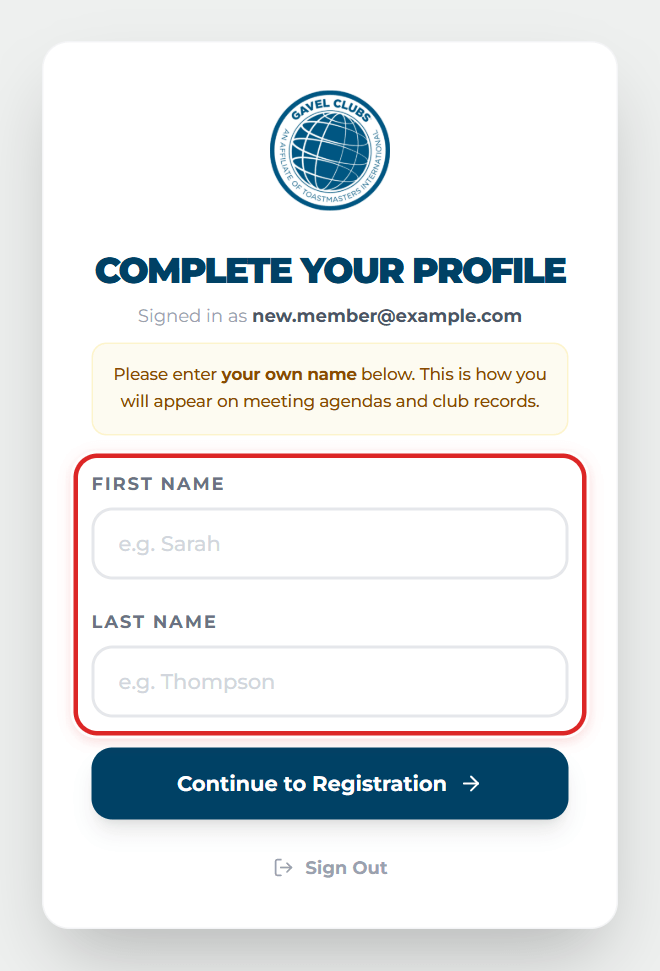
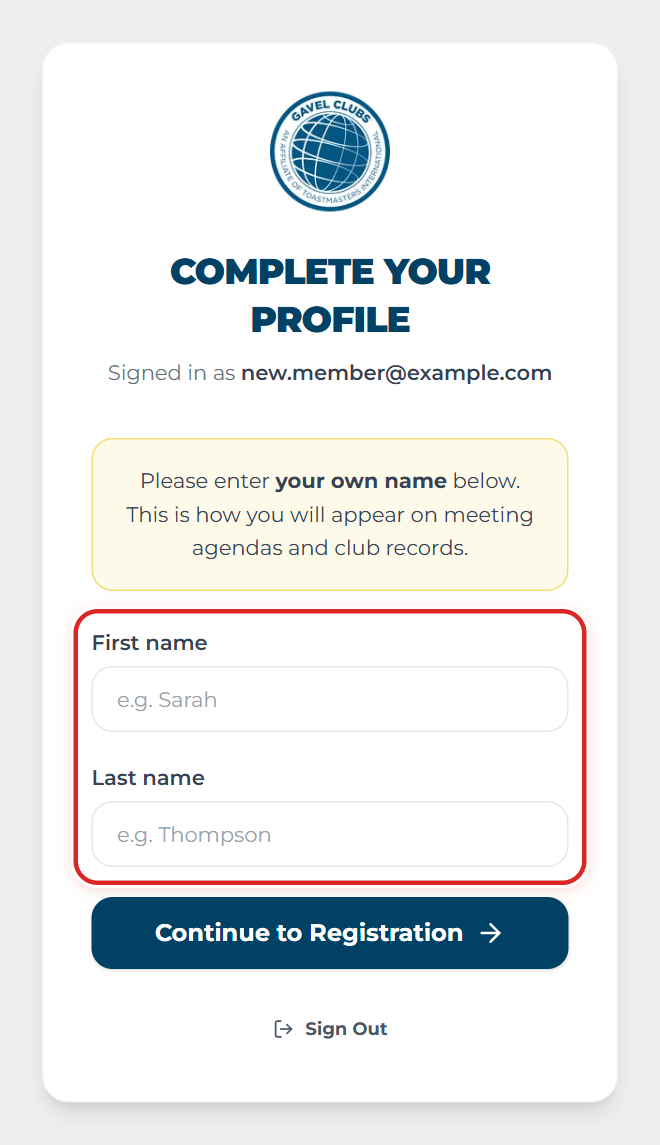
Re-capture tutorial screenshots; document UI conventions and webhook secret
- All tutorial screenshots re-taken with scripts/tutorial-screenshots
  against the demo database. Layouts are unchanged; only styling differs
  (dashboard-member also gains the "You" tag it was missing).
- The email editor keeps paragraph margins at zero, matching the tutorial's
  "leave a blank line" advice; sign-up notices stay text-xs in the narrow card
  and get back a dropped space.
- README: UI conventions section, RESEND_WEBHOOK_SECRET, new test files.
- DEPLOYMENT: TZ pinning in PM2 and the webhook signing secret.
- Tutorial: retrying Step 4 is safe (no second sheet; email only if unsent).

diff --git a/components/login/email-signup.tsx b/components/login/email-signup.tsx
@@ -37,7 +37,7 @@ export default function EmailSignup() {
   if (!showForm) {
     return (
       <div className="w-full space-y-5">
-        <Notice tone="danger" icon={AlertTriangle} title="Please read before continuing" className="[&_li]:leading-relaxed">
+        <Notice tone="danger" icon={AlertTriangle} title="Please read before continuing" className="text-xs">
           <p>
             Signing up with an email and password is <strong>not recommended</strong>, and it is <strong>not how this portal is meant to be used</strong>. It is only here for the very few members who have no way to use a Google account.
           </p>
@@ -49,9 +49,9 @@ export default function EmailSignup() {
           </ul>
         </Notice>
 
-        <Notice tone="brand" icon={false}>
+        <Notice tone="brand" icon={false} className="text-xs">
           <p>
-            <strong className="text-gray-800">You don&apos;t need a Gmail address to use Google sign-in.</strong> A parent&apos;s or family member&apos;s Google account works fine — you will still enter your own name afterwards. You can also make a free Google account in a few minutes.
+            <strong className="text-gray-800">You don&apos;t need a Gmail address to use Google sign-in.</strong>{' '}A parent&apos;s or family member&apos;s Google account works fine — you will still enter your own name afterwards. You can also make a free Google account in a few minutes.
           </p>
         </Notice>
 

diff --git a/app/globals.css b/app/globals.css
@@ -127,9 +127,9 @@
  * rather than a typography plugin: the editor only produces paragraphs,
  * bold/italic/strike and lists.
  */
-.agenda-editor p { margin: 0.75em 0; }
-.agenda-editor > :first-child { margin-top: 0; }
-.agenda-editor > :last-child { margin-bottom: 0; }
+/* No paragraph margins: Toastmasters separate paragraphs with a blank line
+   (see the tutorial), so an empty paragraph is the spacing. */
+.agenda-editor p { margin: 0; }
 .agenda-editor ul { list-style: disc; padding-left: 1.5rem; margin: 0.5em 0; }
 .agenda-editor ol { list-style: decimal; padding-left: 1.5rem; margin: 0.5em 0; }
 .agenda-editor li { margin: 0.25em 0; }

diff --git a/auth.ts b/auth.ts
@@ -60,7 +60,7 @@ export const { handlers, auth, signIn, signOut, unstable_update } = NextAuth({
   callbacks: {
     ...authConfig.callbacks,
     /** Handle new Google sign-ins: create INCOMPLETE user record if first visit. */
-    async signIn({ user, account, profile: _profile }) {
+    async signIn({ user, account }) {
         if (account?.provider === 'google') {
             try {
                 const existingUser = await db.user.findUnique({

diff --git a/README.md b/README.md
@@ -68,6 +68,7 @@ AgendaMaster is a comprehensive management platform designed to automate the ope
    GOOGLE_CLIENT_SECRET="your-client-secret"
    RESEND_API_KEY="re_your_api_key"          # optional in dev — omit to mock-log emails
    RESEND_FROM_EMAIL="AgendaMaster <info@coquitlamgavel.com>"
+   RESEND_WEBHOOK_SECRET=""                  # signing secret of the inbound-email webhook (whsec_...)
    GOOGLE_SERVICE_ACCOUNT_KEY=""             # optional — service-account JSON (or base64), enables admin sheet edits
    SEED_ADMIN_PASSWORD="choose-a-dev-admin-password"
    ```
@@ -113,17 +114,43 @@ What is covered (all of it invisible-when-broken behaviour, which is why it is p
 
 | File | Guards |
 |---|---|
-| `tests/roles-recency.test.ts` | The admin panel only writes roles it owns, and preserves `assignedAt` for unchanged holders — both silently corrupt the fairness rotation when broken. |
+| `tests/roles-recency.test.ts` | The admin panel and the agenda wizard only write roles they own, never accept non-members, and preserve `assignedAt` for unchanged holders — each silently corrupts the fairness rotation when broken. |
 | `tests/backup-speaker.test.ts` | The Backup Speaker stays roleless: still eligible for a minor role, still on the attendance list, never counted as recent participation. |
 | `tests/roster-regeneration.test.ts` | A normal load preserves the saved roster; `ignoreSavedMinorRoles` reshuffles without persisting or disturbing other roles. |
 | `tests/guest-education.test.ts` | The Guest Education override relabels only the `Speaker 3` row (to `Guest Speaker`) and stays byte-identical to Regular output everywhere else — and is fully inert when inactive. |
 | `tests/password-accounts.test.ts` | Email/password accounts: a Google-only account can never be signed into with a password, emails can't be duplicated by capitalization, and each caller's agenda runs under the right Google credential (admins always the service account; members without Google create through the club account). |
 | `tests/service-account.test.ts` | `GOOGLE_SERVICE_ACCOUNT_KEY` parses as raw or base64 JSON, and anything broken degrades to `null` instead of throwing — a bad env var must never break the Toastmaster's sheet creation. |
+| `tests/meeting-access.test.ts` | Only the meeting's own Toastmaster (or an admin) may save its roster or run its agenda pipeline, and only while the meeting is scheduled and still editable. Server actions are public endpoints, so this is the real security boundary. |
+| `tests/request-auth.test.ts` | The inbound-email webhook accepts only correctly signed, fresh Resend deliveries, and the cron endpoints only the exact `CRON_SECRET`. |
+| `tests/email-delivery.test.ts` | No member's address appears in the agenda email's visible `To:` header, and mass email is split into batches within Resend's recipient limit. |
+| `tests/meeting-schedule.test.ts` | The calendar offers only Fridays at 6:45 PM outside July and August, never in the past. |
 
 **Do not deploy test files.** The artifact list in `.github/workflows/deploy.yml` copies only
 `.next`, `public`, `node_modules`, `package.json`, `ecosystem.config.js` and `prisma`, so
 `tests/` is excluded by omission. Keep it that way — and if you ever add a test framework as a
 devDependency, prune it before the rsync step.
+
+---
+
+## 🎨 UI Conventions
+
+The `/tutorial` page set the visual standard; every page now follows it. Before writing new class
+strings, reach for the shared pieces:
+
+- **`components/ui/`** — `Button` (and `buttonVariants` in `button-variants.ts` for links styled as
+  buttons, usable from server components), `Input` / `NativeSelect`, `Label` / `FieldHint`, `Dialog`.
+- **`components/common/`** — `PageShell` + `PageHeader` + `SectionLabel` for page structure;
+  `Card`, `Notice`, `Badge` / `StatusPill`, `EmptyState`, `IconDisc`, `FormError`, `Spinner`;
+  `AuthCard` for the sign-in flow; `ConfirmDialog` for anything irreversible; `MeetingSelector`,
+  `StatusPage`, `LegalPage`.
+
+The colour, text-shade, label and shape rules are written out at the top of `app/globals.css`.
+In short: one grey per text role (`gray-800` values, `700` body, `600` lead, `500` captions,
+`400` meta), nothing smaller than `text-xs`, no opacity on text, brand colours via the
+`brand-*` tokens (never hex), and raw red/amber/green only for danger/warning/success.
+
+Elements the tutorial screenshots point at carry `data-shot="…"` attributes, which
+`scripts/tutorial-screenshots/capture.mjs` targets — keep them when restyling.
 
 ---
 

diff --git a/docs/DEPLOYMENT.md b/docs/DEPLOYMENT.md
@@ -104,6 +104,11 @@ pm2 save
 pm2 startup
 ```
 
+The ecosystem file pins `TZ=America/Vancouver`. Meeting dates are built in server-local time
+(Fridays at 6:45 PM) and the crontab entries below are written in Pacific time, so the process
+must run on Pacific time whatever the Droplet's own timezone is. The deploy reloads PM2 with
+`--update-env` so changes to that `env` block take effect.
+
 ---
 
 ## 5. Nginx Reverse Proxy (optional, for IP-only access)
@@ -167,6 +172,22 @@ Add a second crontab entry (same `CRON_SECRET` as archival):
 
 Check it with `curl -X POST http://localhost:3000/api/cron/refresh-agenda -H "Authorization: Bearer YOUR_SECRET"`.
 The response lists each meeting's result; a `500` means at least one sheet failed.
+
+---
+
+## 8. Inbound Email Webhook
+
+Mail sent to `info@coquitlamgavel.com` arrives through a Resend inbound webhook
+(`POST /api/webhooks/email`) and is forwarded to the club's Gmail. Every delivery must carry a
+valid Svix signature, made with the endpoint's signing secret:
+
+1. In the Resend dashboard open **Webhooks**, select the endpoint, and copy its **Signing secret**
+   (it starts with `whsec_`).
+2. Add it to `/var/www/agendamaster/.env` on the Droplet as `RESEND_WEBHOOK_SECRET`, then
+   `pm2 reload ecosystem.config.js --update-env`.
+
+While the variable is missing the endpoint answers `503` and forwards nothing (Resend retries
+failed deliveries for a while, so mail sent in the gap is not lost immediately).
 
 ---
 

diff --git a/scripts/tutorial-screenshots/README.md b/scripts/tutorial-screenshots/README.md
@@ -60,4 +60,4 @@ Run everything from the repo root.
 |---|---|
 | `demo-seed.ts` | Creates `.out/demo.db`: ~20 made-up members with some role history, next Friday's meeting with its major roles, and email/password logins for a Toastmaster, an ordinary member, a new (incomplete) account and a pending one. Passwords are random on every run and written only to `.out/demo-credentials.json`. `--finalize` fills in the minor roles, theme, question and a placeholder sheet link. |
 | `render-agenda-example.ts` | Builds the demo meeting's agenda with the app's own sheet code (`buildSheetPayload` + `populateTemplate`) and writes it as a spreadsheet-looking page, `.out/agenda-example.html`. |
-| `capture.mjs` | Drives headless Chrome over the DevTools protocol: signs in as each demo account, walks the screens, draws the red rings, and saves compressed PNGs. It never presses "Create Agenda & Send Email" or "Save & Close". |
+| `capture.mjs` | Drives headless Chrome over the DevTools protocol: signs in as each demo account, walks the screens, draws the red rings, and saves compressed PNGs. It never presses "Create Agenda & Send Email" or "Save & Close". Screenshot regions are found through `data-shot="…"` attributes in the app (not Tailwind classes), so restyling a page doesn't break a shot. |
